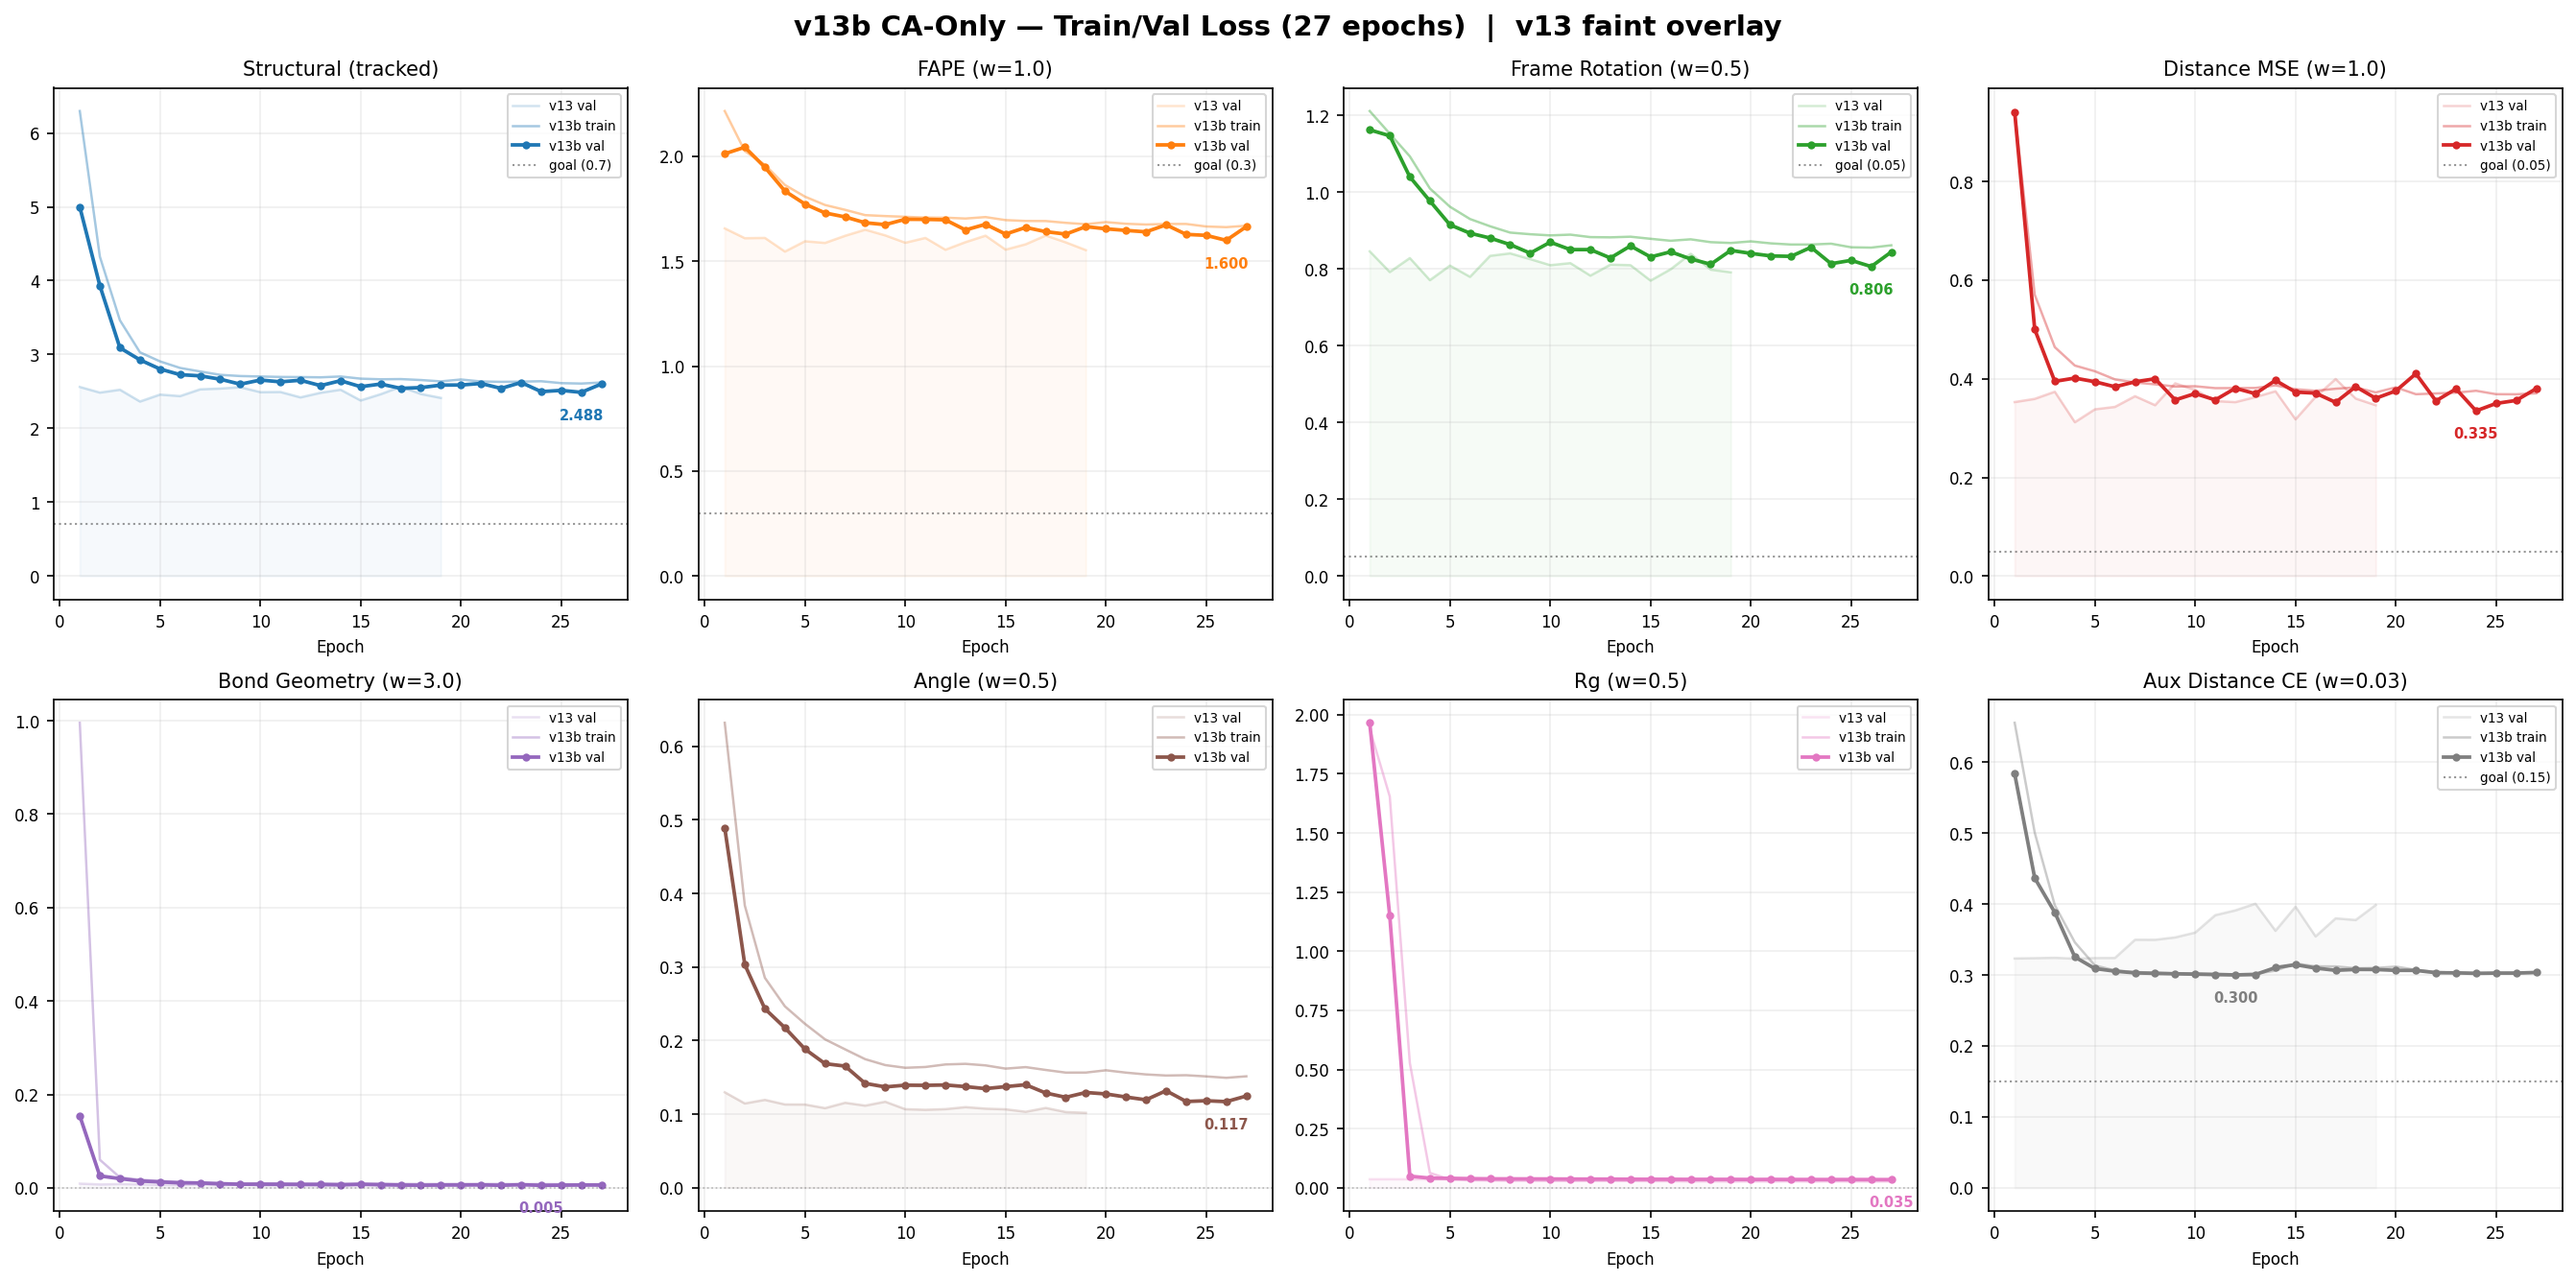
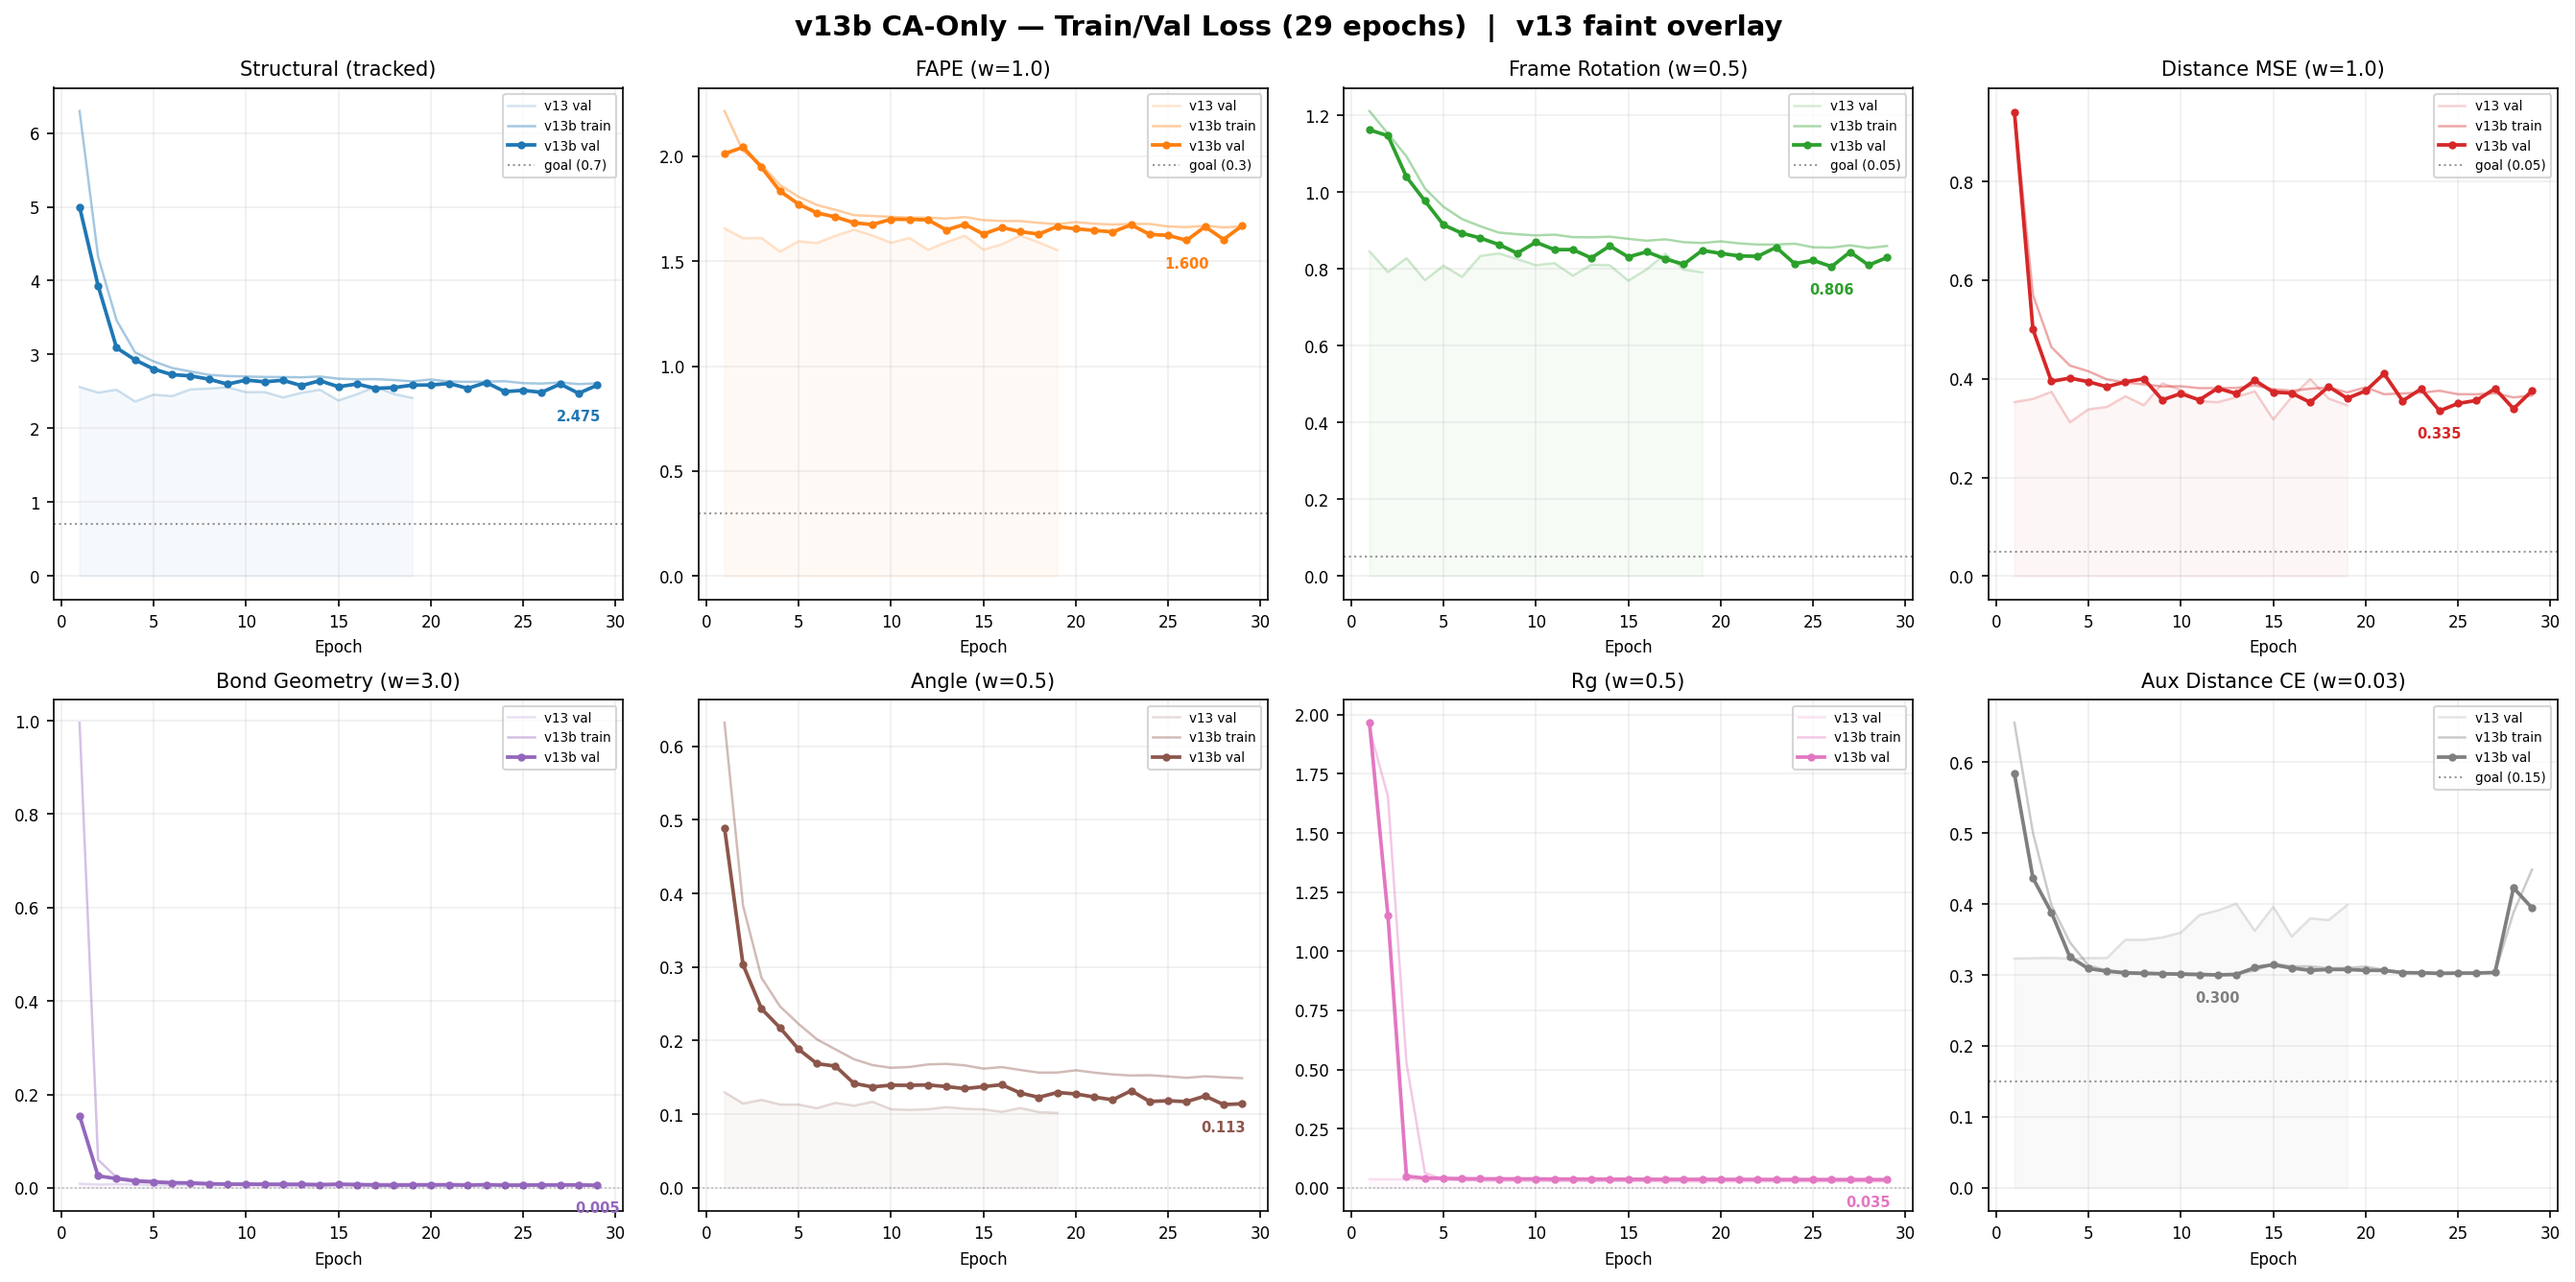
Update tables and plots: v13b E28-29, v14 E28
v13b: New best at E28 — structural 2.475 (down from 2.488). Still
improving, patience 1/15.

v14: E28 patience 13/15, approaching early stop. Best remains 2.425.

diff --git a/minifold.html b/minifold.html
@@ -194,7 +194,7 @@
       Full architecture history, training tables, loss functions, and analysis for the protein backbone diffusion model.
     </p>
     <p id="last-updated" style="color: var(--text-secondary); font-size: 13px; margin-bottom: 16px; font-style: italic;">
-      Last updated: Mar 13, 2026 at 3:30 PM PST
+      Last updated: Mar 13, 2026 at 5:30 PM PST
     </p>
 
     <div class="mf-tabs">
@@ -416,6 +416,8 @@
             <tr><td>25</td><td>2.524</td><td>2.498</td><td>1.624</td><td>0.823</td><td>0.350</td><td>0.006</td><td>0.303</td><td>0.359</td><td>0.118</td><td>0.035</td><td>&mdash;</td><td><span class="tag tag-stale">pat 1/15</span></td></tr>
             <tr><td><strong>26</strong></td><td><strong>2.497</strong></td><td style="color: #2ca02c;"><strong>2.488</strong></td><td>1.600</td><td>0.806</td><td>0.356</td><td>0.006</td><td>0.303</td><td>0.352</td><td>0.117</td><td>0.035</td><td>&mdash;</td><td><span class="tag tag-best">NEW BEST</span></td></tr>
             <tr><td>27</td><td>2.610</td><td>2.488</td><td>1.665</td><td>0.844</td><td>0.380</td><td>0.006</td><td>0.303</td><td>0.364</td><td>0.125</td><td>0.035</td><td>&mdash;</td><td><span class="tag tag-stale">pat 1/15</span></td></tr>
+            <tr><td><strong>28</strong></td><td><strong>2.487</strong></td><td style="color: #2ca02c;"><strong>2.475</strong></td><td>1.604</td><td>0.810</td><td>0.339</td><td>0.006</td><td>0.423</td><td>0.345</td><td>0.113</td><td>0.035</td><td>&mdash;</td><td><span class="tag tag-best">NEW BEST</span></td></tr>
+            <tr><td>29</td><td>2.597</td><td>2.475</td><td>1.669</td><td>0.830</td><td>0.376</td><td>0.005</td><td>0.394</td><td>0.347</td><td>0.114</td><td>0.035</td><td>&mdash;</td><td><span class="tag tag-stale">pat 1/15</span></td></tr>
           </tbody>
         </table>
       </div>
@@ -629,6 +631,7 @@
             <tr><td>25</td><td>4.073</td><td>2.425</td><td>1.565</td><td>0.790</td><td>0.400</td><td>1.555</td><td>0.004</td><td>0.014</td><td>&mdash;</td><td><span class="tag tag-stale">pat 10/15</span></td></tr>
             <tr><td>26</td><td>4.132</td><td>2.425</td><td>1.579</td><td>0.817</td><td>0.415</td><td>1.569</td><td>0.004</td><td>0.015</td><td>&mdash;</td><td><span class="tag tag-stale">pat 11/15</span></td></tr>
             <tr><td>27</td><td>4.108</td><td>2.425</td><td>1.571</td><td>0.808</td><td>0.417</td><td>1.560</td><td>0.003</td><td>0.014</td><td>&mdash;</td><td><span class="tag tag-stale">pat 12/15</span></td></tr>
+            <tr><td>28</td><td>4.160</td><td>2.425</td><td>1.598</td><td>0.824</td><td>0.407</td><td>1.587</td><td>0.004</td><td>0.013</td><td>&mdash;</td><td><span class="tag tag-stale">pat 13/15</span></td></tr>
           </tbody>
         </table>
       </div>
